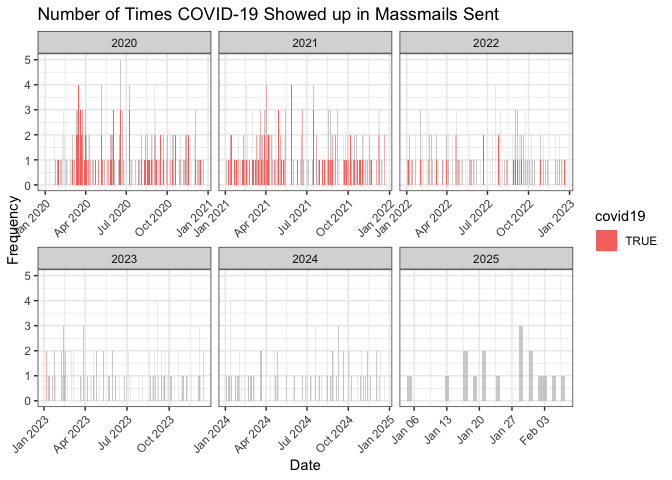
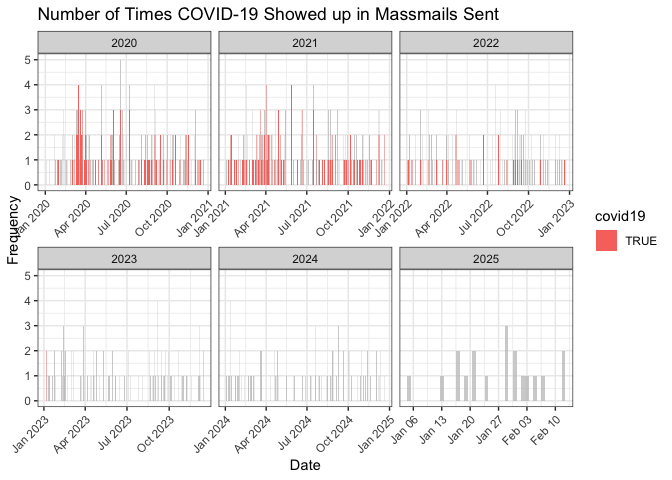
Re-build README.Rmd and Graphs

Changed region(s): [[0.5938, 0.6875, 0.8438, 0.9375], [0.5625, 0.9062, 0.5938, 0.9375]]

diff --git a/README.md b/README.md
@@ -17,7 +17,7 @@ The archive may be viewed here:
 
 <https://massmail.illinois.edu/massmailArchive>
 
-Data has **1843** observations and **7** variables:
+Data has **1845** observations and **7** variables:
 
 - `datetime`: Date and time when the email was sent in the form of
   `YYYY-MM-DD HMS` with either CDT or CST.
@@ -214,8 +214,8 @@ head(most_popular_words, 10) %>%
 | students    | 1952 |
 | campus      | 1740 |
 | illinois    | 1582 |
-| student     | 1175 |
-| faculty     | 1119 |
+| student     | 1179 |
+| faculty     | 1123 |
 | covid       | 1070 |
 | community   | 1059 |
 | health      | 1056 |
